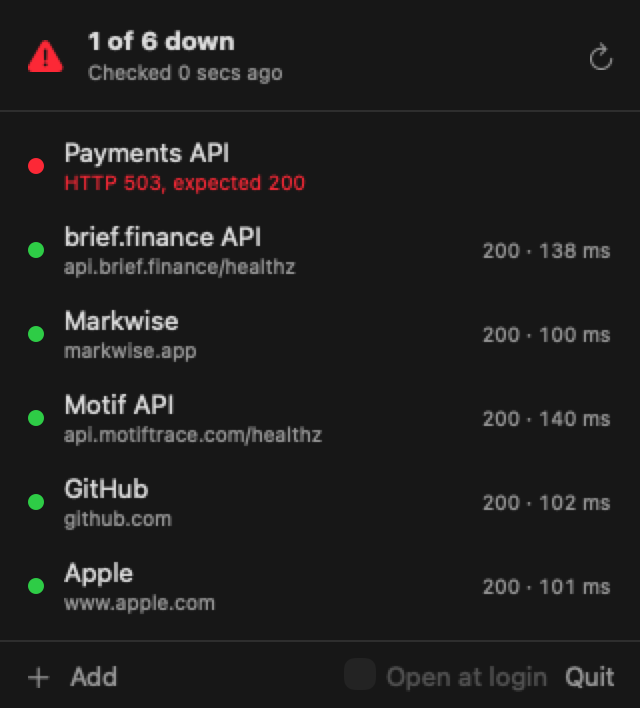
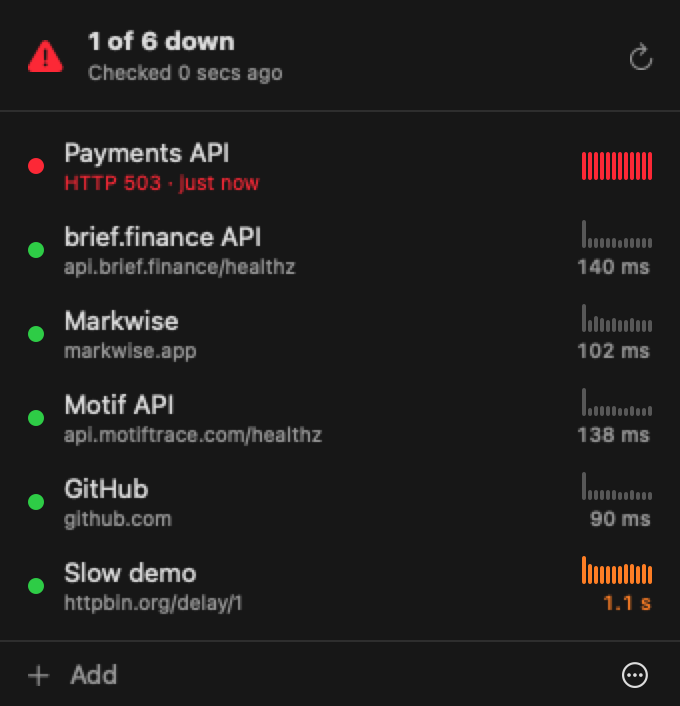
Sparkline, down duration, hover edit, optional names, tidier footer

diff --git a/Sources/Upbar/Upbar.swift b/Sources/Upbar/Upbar.swift
@@ -45,7 +45,7 @@ func probe(_ endpoint: Endpoint) async -> Health {
         let (_, response) = try await session.data(from: url)
         let code = (response as? HTTPURLResponse)?.statusCode ?? 0
         let ms = Int((ContinuousClock.now - start) / .milliseconds(1))
-        return code == endpoint.expected ? .up(code: code, ms: ms) : .down("HTTP \(code), expected \(endpoint.expected)")
+        return code == endpoint.expected ? .up(code: code, ms: ms) : .down("HTTP \(code)")
     } catch {
         return .down(error.localizedDescription)
     }
@@ -59,6 +59,9 @@ final class Store {
     var endpoints: [Endpoint] { didSet { UserDefaults.standard.set(try? JSONEncoder().encode(endpoints), forKey: "endpoints") } }
     private(set) var health: [UUID: Health] = [:]
     private(set) var lastCheck: Date?
+    /// Last 30 raw response times, nil = failed check. Drives the sparkline.
+    private(set) var history: [UUID: [Int?]] = [:]
+    private(set) var downSince: [UUID: Date] = [:]
     private var streak: [UUID: Int] = [:]
     private var checking = false
 
@@ -90,24 +93,38 @@ final class Store {
         }
         for endpoint in snapshot {
             guard let result = results[endpoint.id], endpoints.contains(endpoint) else { continue }
+            record(endpoint.id, result)
             let before = health[endpoint.id] ?? .unknown
             let (after, count) = step(before, streak: streak[endpoint.id, default: 0], probe: result)
             (health[endpoint.id], streak[endpoint.id]) = (after, count)
-            if case .down(let reason) = after, !before.isDown { notify("\(endpoint.name) is down", reason) }
-            if before.isDown, case .up = after { notify("\(endpoint.name) is back up", endpoint.url) }
+            if case .down(let reason) = after, !before.isDown { downSince[endpoint.id] = .now; notify("\(endpoint.name) is down", reason) }
+            if before.isDown, case .up = after { downSince[endpoint.id] = nil; notify("\(endpoint.name) is back up", endpoint.url) }
         }
         lastCheck = .now
     }
 
     func save(_ endpoint: Endpoint) {
         if let i = endpoints.firstIndex(where: { $0.id == endpoint.id }) { endpoints[i] = endpoint } else { endpoints.append(endpoint) }
-        (health[endpoint.id], streak[endpoint.id]) = (nil, nil)
-        Task { health[endpoint.id] = await probe(endpoint) }  // show it right away, without waiting for the next round
+        forget(endpoint.id)
+        Task {  // show it right away, without waiting for the next round
+            let result = await probe(endpoint)
+            health[endpoint.id] = result
+            record(endpoint.id, result)
+        }
     }
 
     func delete(_ endpoint: Endpoint) {
         endpoints.removeAll { $0.id == endpoint.id }
-        (health[endpoint.id], streak[endpoint.id]) = (nil, nil)
+        forget(endpoint.id)
+    }
+
+    private func record(_ id: UUID, _ result: Health) {
+        let ms: Int? = if case .up(_, let ms) = result { ms } else { nil }
+        history[id, default: []] = (history[id, default: []] + [ms]).suffix(30)
+    }
+
+    private func forget(_ id: UUID) {
+        (health[id], streak[id], history[id], downSince[id]) = (nil, nil, nil, nil)
     }
 
     var launchAtLogin: Bool {
@@ -133,7 +150,12 @@ struct Upbar: App {
         MenuBarExtra {
             Popover().environment(store)
         } label: {
-            if store.downCount > 0 { Image(nsImage: alertIcon) } else { Image(systemName: "checkmark.circle") }
+            if store.downCount > 0 {
+                Image(nsImage: alertIcon)
+                Text("\(store.downCount)")
+            } else {
+                Image(systemName: "checkmark.circle")
+            }
         }
         .menuBarExtraStyle(.window)
     }
@@ -168,17 +190,19 @@ struct Popover: View {
                 }
             }
         }
-        .frame(width: 320)
+        .frame(width: 340)
     }
 
     private var header: some View {
         let down = store.downCount > 0
+        let title = down ? "\(store.downCount) of \(store.endpoints.count) down"
+            : store.endpoints.isEmpty ? "Upbar" : store.lastCheck == nil ? "Checking…" : "All systems operational"
         return HStack(spacing: 10) {
             Image(systemName: down ? "exclamationmark.triangle.fill" : "checkmark.circle.fill")
                 .font(.title2)
                 .foregroundStyle(down ? .red : .green)
             VStack(alignment: .leading, spacing: 2) {
-                Text(down ? "\(store.downCount) of \(store.endpoints.count) down" : store.endpoints.isEmpty ? "Upbar" : "All systems operational").font(.headline)
+                Text(title).font(.headline)
                 if let last = store.lastCheck {
                     Text("Checked \(last, style: .relative) ago").font(.caption).foregroundStyle(.secondary)
                 }
@@ -194,7 +218,7 @@ struct Popover: View {
 
     @ViewBuilder private var list: some View {
         if store.endpoints.isEmpty {
-            Text("Nothing to watch yet.\nAdd a URL and Upbar checks it every minute.")
+            Text("Nothing to watch yet.\nPaste a URL and Upbar checks it every minute.")
                 .multilineTextAlignment(.center)
                 .foregroundStyle(.secondary)
                 .frame(maxWidth: .infinity)
@@ -203,7 +227,8 @@ struct Popover: View {
             ScrollView {
                 VStack(spacing: 0) {
                     ForEach(store.sorted) { endpoint in
-                        Row(endpoint: endpoint, health: store.health[endpoint.id] ?? .unknown)
+                        Row(endpoint: endpoint, health: store.health[endpoint.id] ?? .unknown,
+                            history: store.history[endpoint.id] ?? [], downSince: store.downSince[endpoint.id]) { editing = endpoint }
                             .contextMenu {
                                 Button("Edit…") { editing = endpoint }
                                 Button("Delete", role: .destructive) { store.delete(endpoint) }
@@ -212,7 +237,7 @@ struct Popover: View {
                 }
                 .padding(6)
             }
-            .frame(maxHeight: 400)
+            .frame(maxHeight: 420)
             .fixedSize(horizontal: false, vertical: true)
         }
     }
@@ -222,8 +247,15 @@ struct Popover: View {
         return HStack {
             Button("Add", systemImage: "plus") { editing = Endpoint() }.keyboardShortcut("n")
             Spacer()
-            Toggle("Open at login", isOn: $store.launchAtLogin).toggleStyle(.checkbox).disabled(!isApp)
-            Button("Quit") { NSApp.terminate(nil) }.keyboardShortcut("q")
+            Menu {
+                Toggle("Open at Login", isOn: $store.launchAtLogin).disabled(!isApp)
+                Divider()
+                Button("Quit Upbar") { NSApp.terminate(nil) }.keyboardShortcut("q")
+            } label: {
+                Image(systemName: "ellipsis.circle")
+            }
+            .menuIndicator(.hidden)
+            .fixedSize()
         }
         .buttonStyle(.borderless)
         .padding(.horizontal, 12)
@@ -234,6 +266,9 @@ struct Popover: View {
 struct Row: View {
     let endpoint: Endpoint
     let health: Health
+    let history: [Int?]
+    let downSince: Date?
+    let edit: () -> Void
     @State private var hovering = false
 
     var body: some View {
@@ -242,11 +277,19 @@ struct Row: View {
                 Circle().fill(color).frame(width: 8, height: 8)
                 VStack(alignment: .leading, spacing: 1) {
                     Text(endpoint.name).lineLimit(1)
-                    Text(detail).font(.caption).foregroundStyle(health.isDown ? .red : .secondary).lineLimit(1)
+                    detail.font(.caption).foregroundStyle(health.isDown ? .red : .secondary).lineLimit(1)
                 }
                 Spacer(minLength: 8)
-                if case .up(let code, let ms) = health {
-                    Text("\(code) · \(ms) ms").font(.caption.monospacedDigit()).foregroundStyle(.secondary)
+                if hovering {
+                    Button("Edit", systemImage: "pencil", action: edit).labelStyle(.iconOnly).buttonStyle(.borderless)
+                }
+                VStack(alignment: .trailing, spacing: 3) {
+                    Sparkline(history: history)
+                    if case .up(let code, let ms) = health {
+                        Text((code == 200 ? "" : "\(code) · ") + (ms < 1000 ? "\(ms) ms" : String(format: "%.1f s", Double(ms) / 1000)))
+                            .font(.caption2.monospacedDigit())
+                            .foregroundStyle(ms > 1000 ? .orange : .secondary)
+                    }
                 }
             }
             .padding(.horizontal, 8)
@@ -258,9 +301,11 @@ struct Row: View {
         .onHover { hovering = $0 }
     }
 
-    private var detail: String {
-        if case .down(let reason) = health { return reason }
-        return endpoint.url.replacingOccurrences(of: "https://", with: "")
+    private var detail: Text {
+        guard case .down(let reason) = health else { return Text(endpoint.url.replacingOccurrences(of: "https://", with: "")) }
+        guard let downSince else { return Text(reason) }
+        let minutes = Int(-downSince.timeIntervalSinceNow / 60)
+        return Text("\(reason) · " + (minutes < 1 ? "just now" : minutes < 60 ? "\(minutes)m" : "\(minutes / 60)h \(minutes % 60)m"))
     }
 
     private var color: Color {
@@ -272,21 +317,41 @@ struct Row: View {
     }
 }
 
+/// Response times of the last 30 checks, newest on the right. Failed checks are full-height red bars.
+struct Sparkline: View {
+    let history: [Int?]
+
+    var body: some View {
+        // Scale to 3x the median so one cold-start spike doesn't flatten the rest; taller bars clip.
+        let times = history.compactMap { $0 }.sorted()
+        let peak = CGFloat(max(min(times.last ?? 1, 3 * (times.isEmpty ? 1 : times[times.count / 2])), 1))
+        HStack(alignment: .bottom, spacing: 1) {
+            ForEach(Array(history.enumerated()), id: \.offset) { _, ms in
+                Capsule()
+                    .fill(ms == nil ? Color.red : ms! > 1000 ? .orange : .secondary.opacity(0.5))
+                    .frame(width: 2, height: ms.map { min(14, max(2, 14 * CGFloat($0) / peak)) } ?? 14)
+            }
+        }
+        .frame(width: 90, height: 14, alignment: .bottomTrailing)
+    }
+}
+
 struct Editor: View {
     @State var endpoint: Endpoint
     let done: (Endpoint?) -> Void
 
+    private var host: String? { URL(string: endpoint.url).flatMap { $0.host() } }
     private var valid: Bool {
-        !endpoint.name.trimmingCharacters(in: .whitespaces).isEmpty && (100...599).contains(endpoint.expected)
-            && URL(string: endpoint.url).map { ["http", "https"].contains($0.scheme) && $0.host() != nil } == true
+        (100...599).contains(endpoint.expected) && host != nil
+            && URL(string: endpoint.url).map { ["http", "https"].contains($0.scheme) } == true
     }
 
     var body: some View {
         VStack(alignment: .leading, spacing: 12) {
-            Text(endpoint.name.isEmpty ? "New endpoint" : endpoint.name).font(.headline)
+            Text(endpoint.name.isEmpty ? host ?? "New endpoint" : endpoint.name).font(.headline)
             Form {
-                TextField("Name", text: $endpoint.name, prompt: Text("My API"))
                 TextField("URL", text: $endpoint.url, prompt: Text("https://api.example.com/health"))
+                TextField("Name", text: $endpoint.name, prompt: Text(host ?? "Optional"))
                 TextField("Expect", value: $endpoint.expected, format: .number.grouping(.never), prompt: Text("200"))
             }
             Text("Down after \(failureThreshold) failed checks in a row. Redirects aren't followed.")
@@ -295,7 +360,13 @@ struct Editor: View {
             HStack {
                 Spacer()
                 Button("Cancel") { done(nil) }.keyboardShortcut(.cancelAction)
-                Button("Save") { done(endpoint) }.keyboardShortcut(.defaultAction).disabled(!valid)
+                Button("Save") {
+                    var saved = endpoint
+                    if saved.name.trimmingCharacters(in: .whitespaces).isEmpty { saved.name = host ?? saved.url }
+                    done(saved)
+                }
+                .keyboardShortcut(.defaultAction)
+                .disabled(!valid)
             }
         }
         .padding(12)
